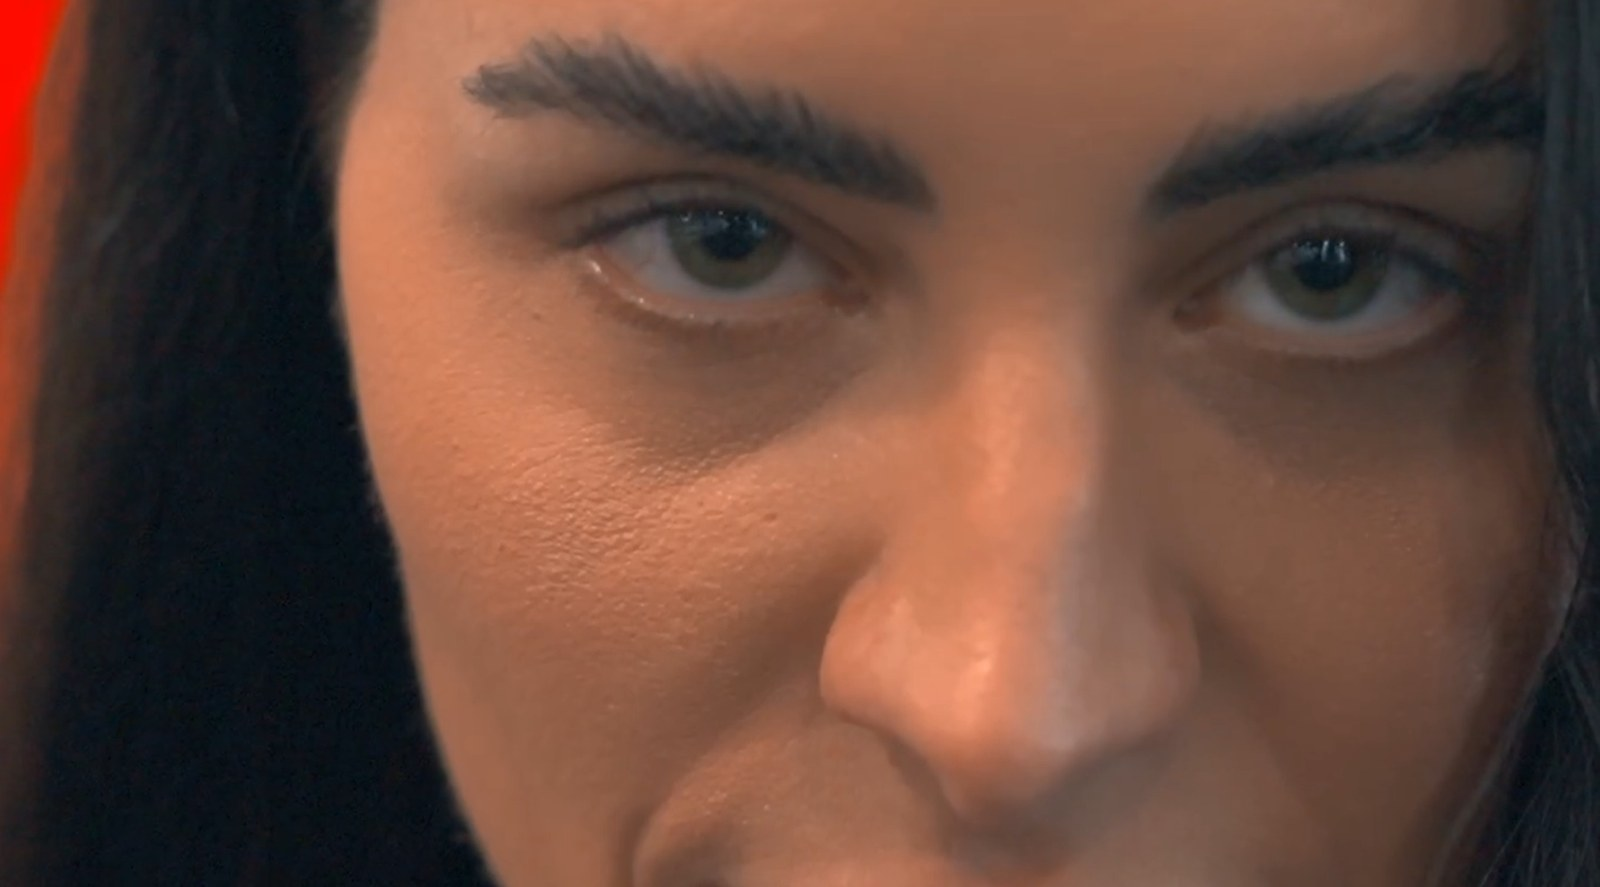
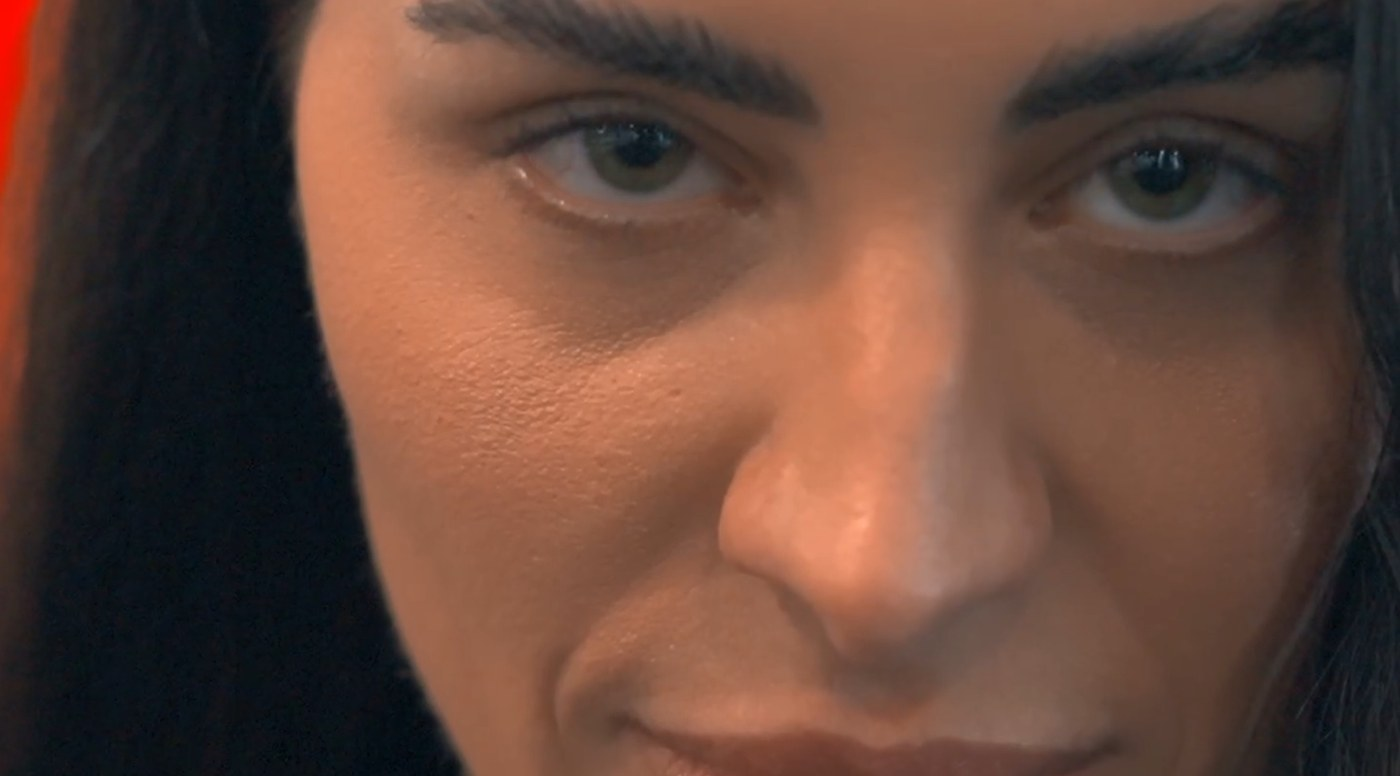
Use the real S-Log3 and graded stills for the compare slider
Nicolas supplied both halves as proper exports: the ungraded S-Log3 frame
(1672x941, mean saturation 0.106) and the graded frame (2548x1433, 0.403).
Registered the pair (structural NCC 0.973, pure scale 1.5215, no offset -
identical framing) and cut both to the same region, delivered at 1400x776.

grade-raw goes 712x401 -> 1400x776 and grade-graded 364x205 -> 1400x776, so
both halves are the same resolution and the wipe is pixel-aligned rather
than stepping across the seam.

The S-Log3 export carries burned-in captions - "REC.709 TO S-LOG3 (NO LUT)"
at x[27..296] y[25..77] and "S-LOG3 (NO LUT)" at x[27..137] y[862..914].
Inpainting them left faint rectangular ghosting, so the crop is nudged down
to y=84 instead, which clears both captions with real pixels and no
reconstruction. Verified: 1 pixel above luma 165 in the final raw crop
(a specular highlight); the captions contributed 2262.

Verified: drag lands on 20/50/80, keyboard and resize track, full-page test
reports no console errors, failed requests or overflow.

diff --git a/index.html b/index.html
@@ -1380,15 +1380,15 @@ button.work-tile:focus-visible{ outline:2px solid var(--green-400); outline-offs
       <div class="grade-compare bracket-frame" id="gradeCompare">
         <i></i><i></i><i></i><i></i>
         <div class="grade-panel grade-graded" id="gradeGraded">
-          <img src="assets/grade-graded.jpg" width="1600" height="887" loading="lazy" decoding="async"
+          <img src="assets/grade-graded.jpg" width="1400" height="776" loading="lazy" decoding="async"
                draggable="false"
                alt="The same frame after the color grade: warm skin, a red rim light, deep blacks.">
           <span class="grade-tag" aria-hidden="true">GRADED</span>
         </div>
         <div class="grade-panel grade-raw">
-          <img src="assets/grade-raw.jpg" width="712" height="401" loading="lazy" decoding="async"
+          <img src="assets/grade-raw.jpg" width="1400" height="776" loading="lazy" decoding="async"
                draggable="false"
-               alt="A frame from the F45 spot straight off the camera, flat and desaturated.">
+               alt="The same frame from the F45 spot in S-Log3 straight off the camera, flat and desaturated.">
           <span class="grade-tag" aria-hidden="true">RAW</span>
         </div>
         <div class="grade-handle" id="gradeHandle" tabindex="0" role="slider"
